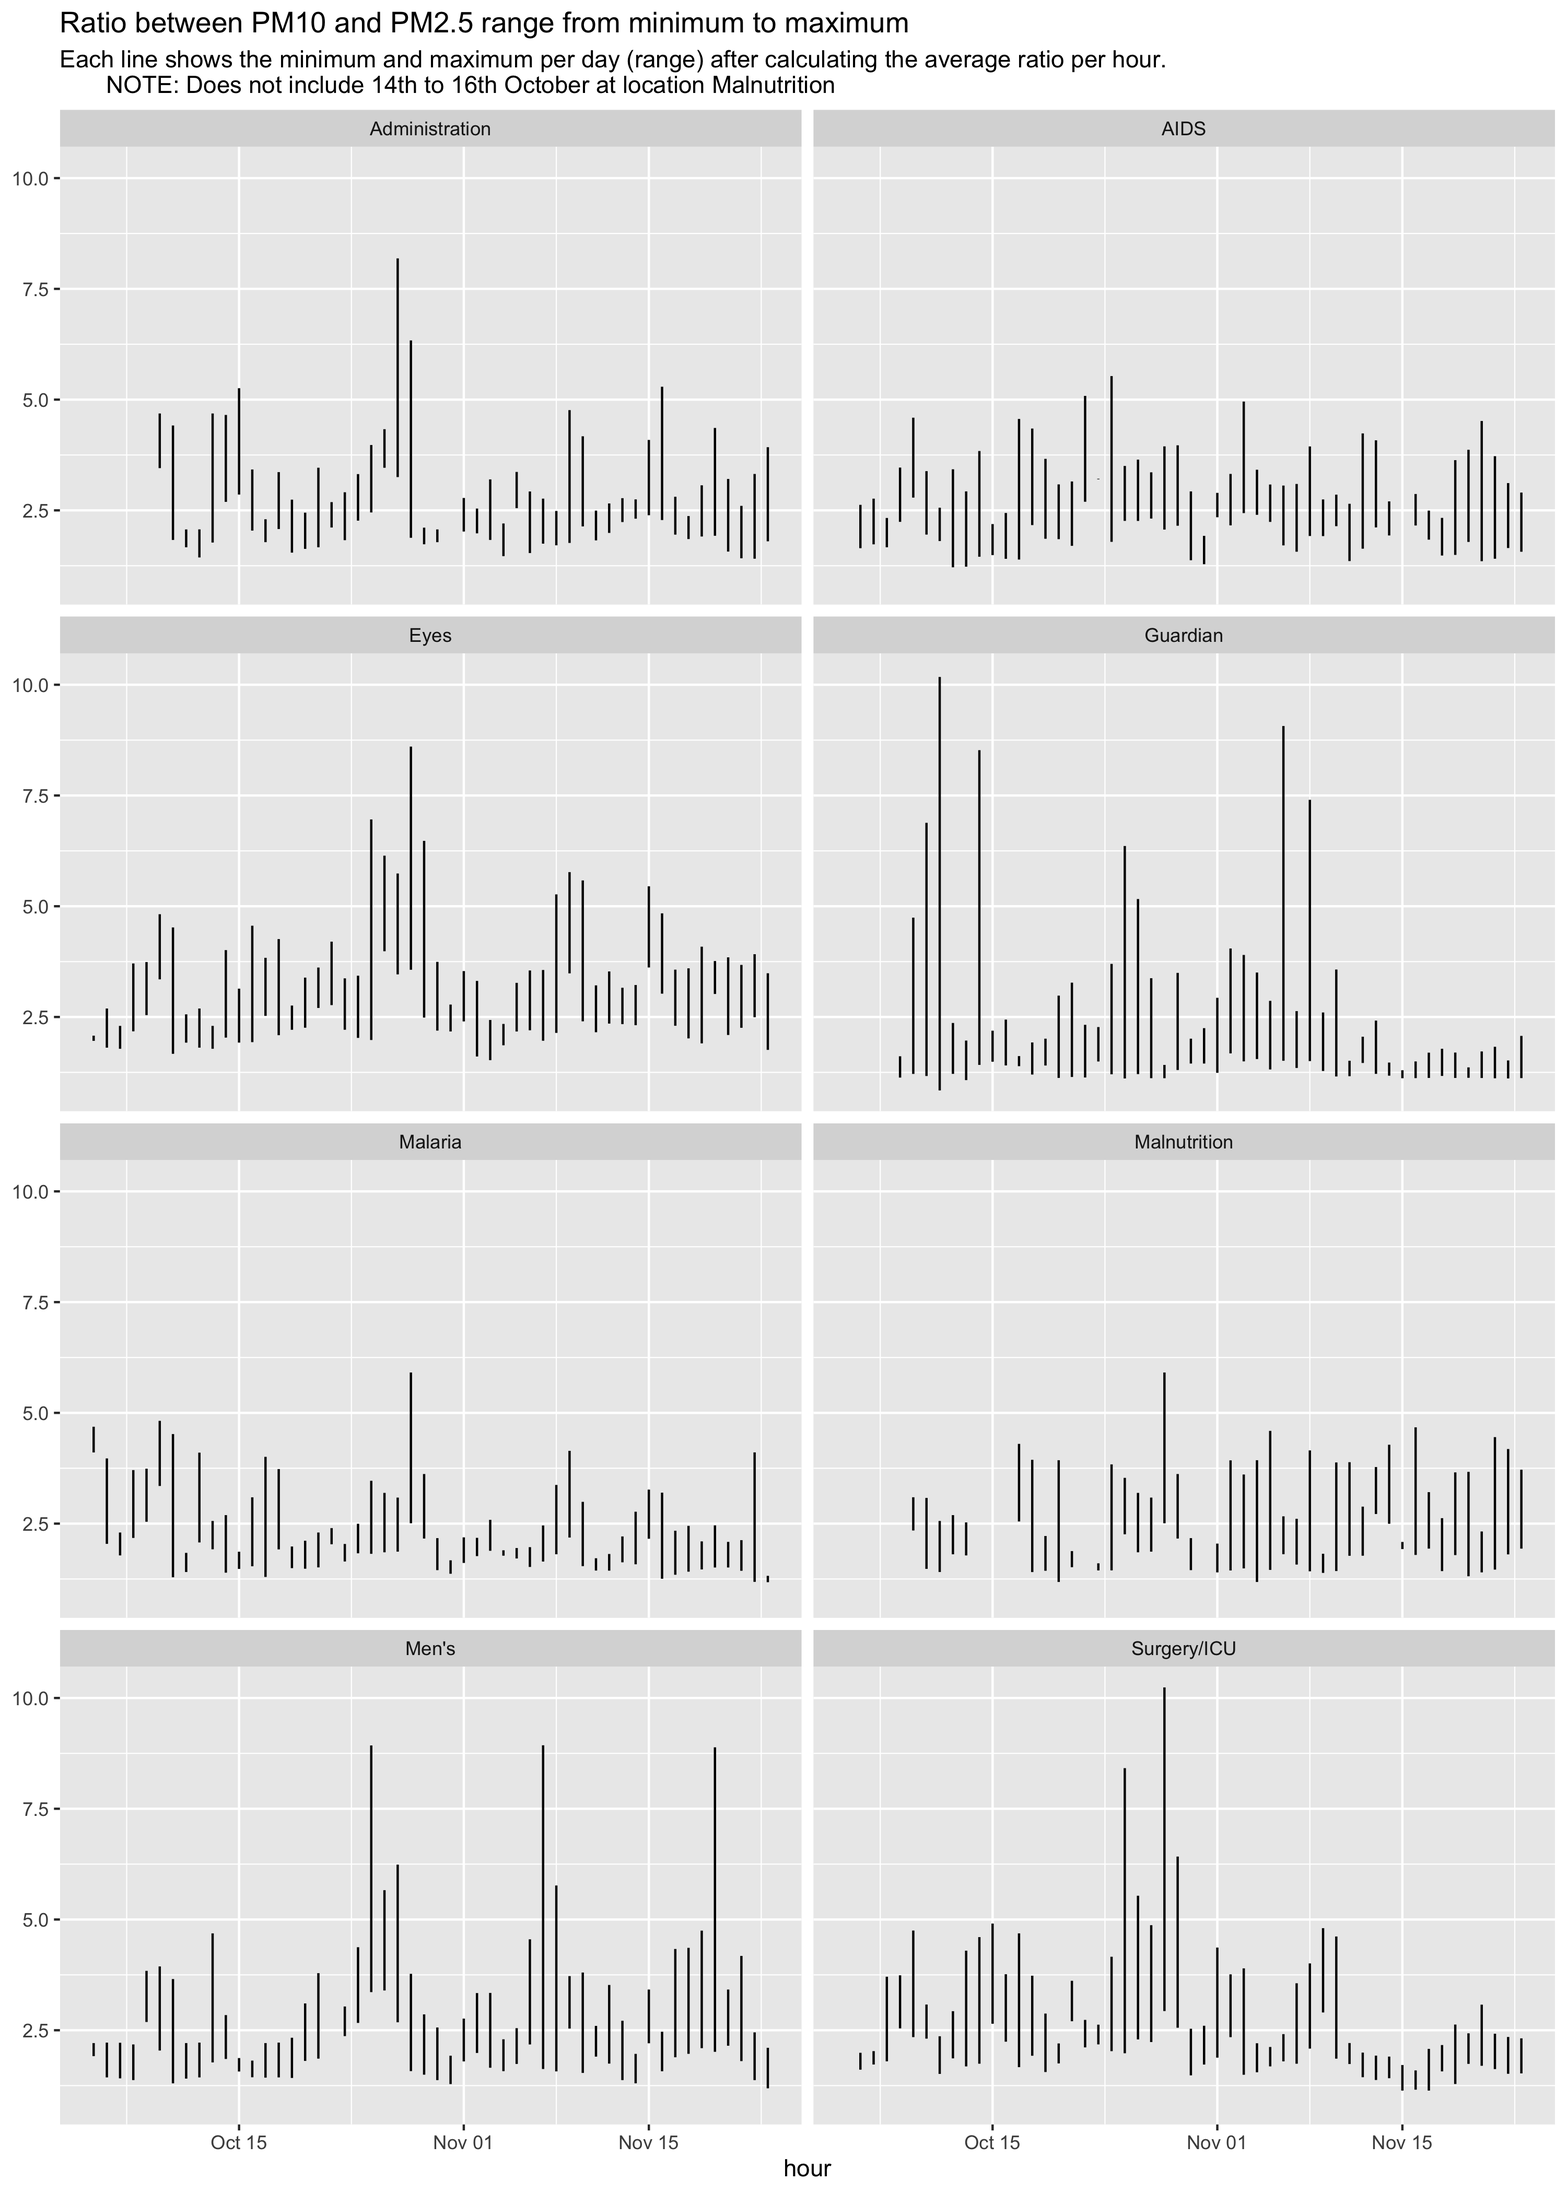
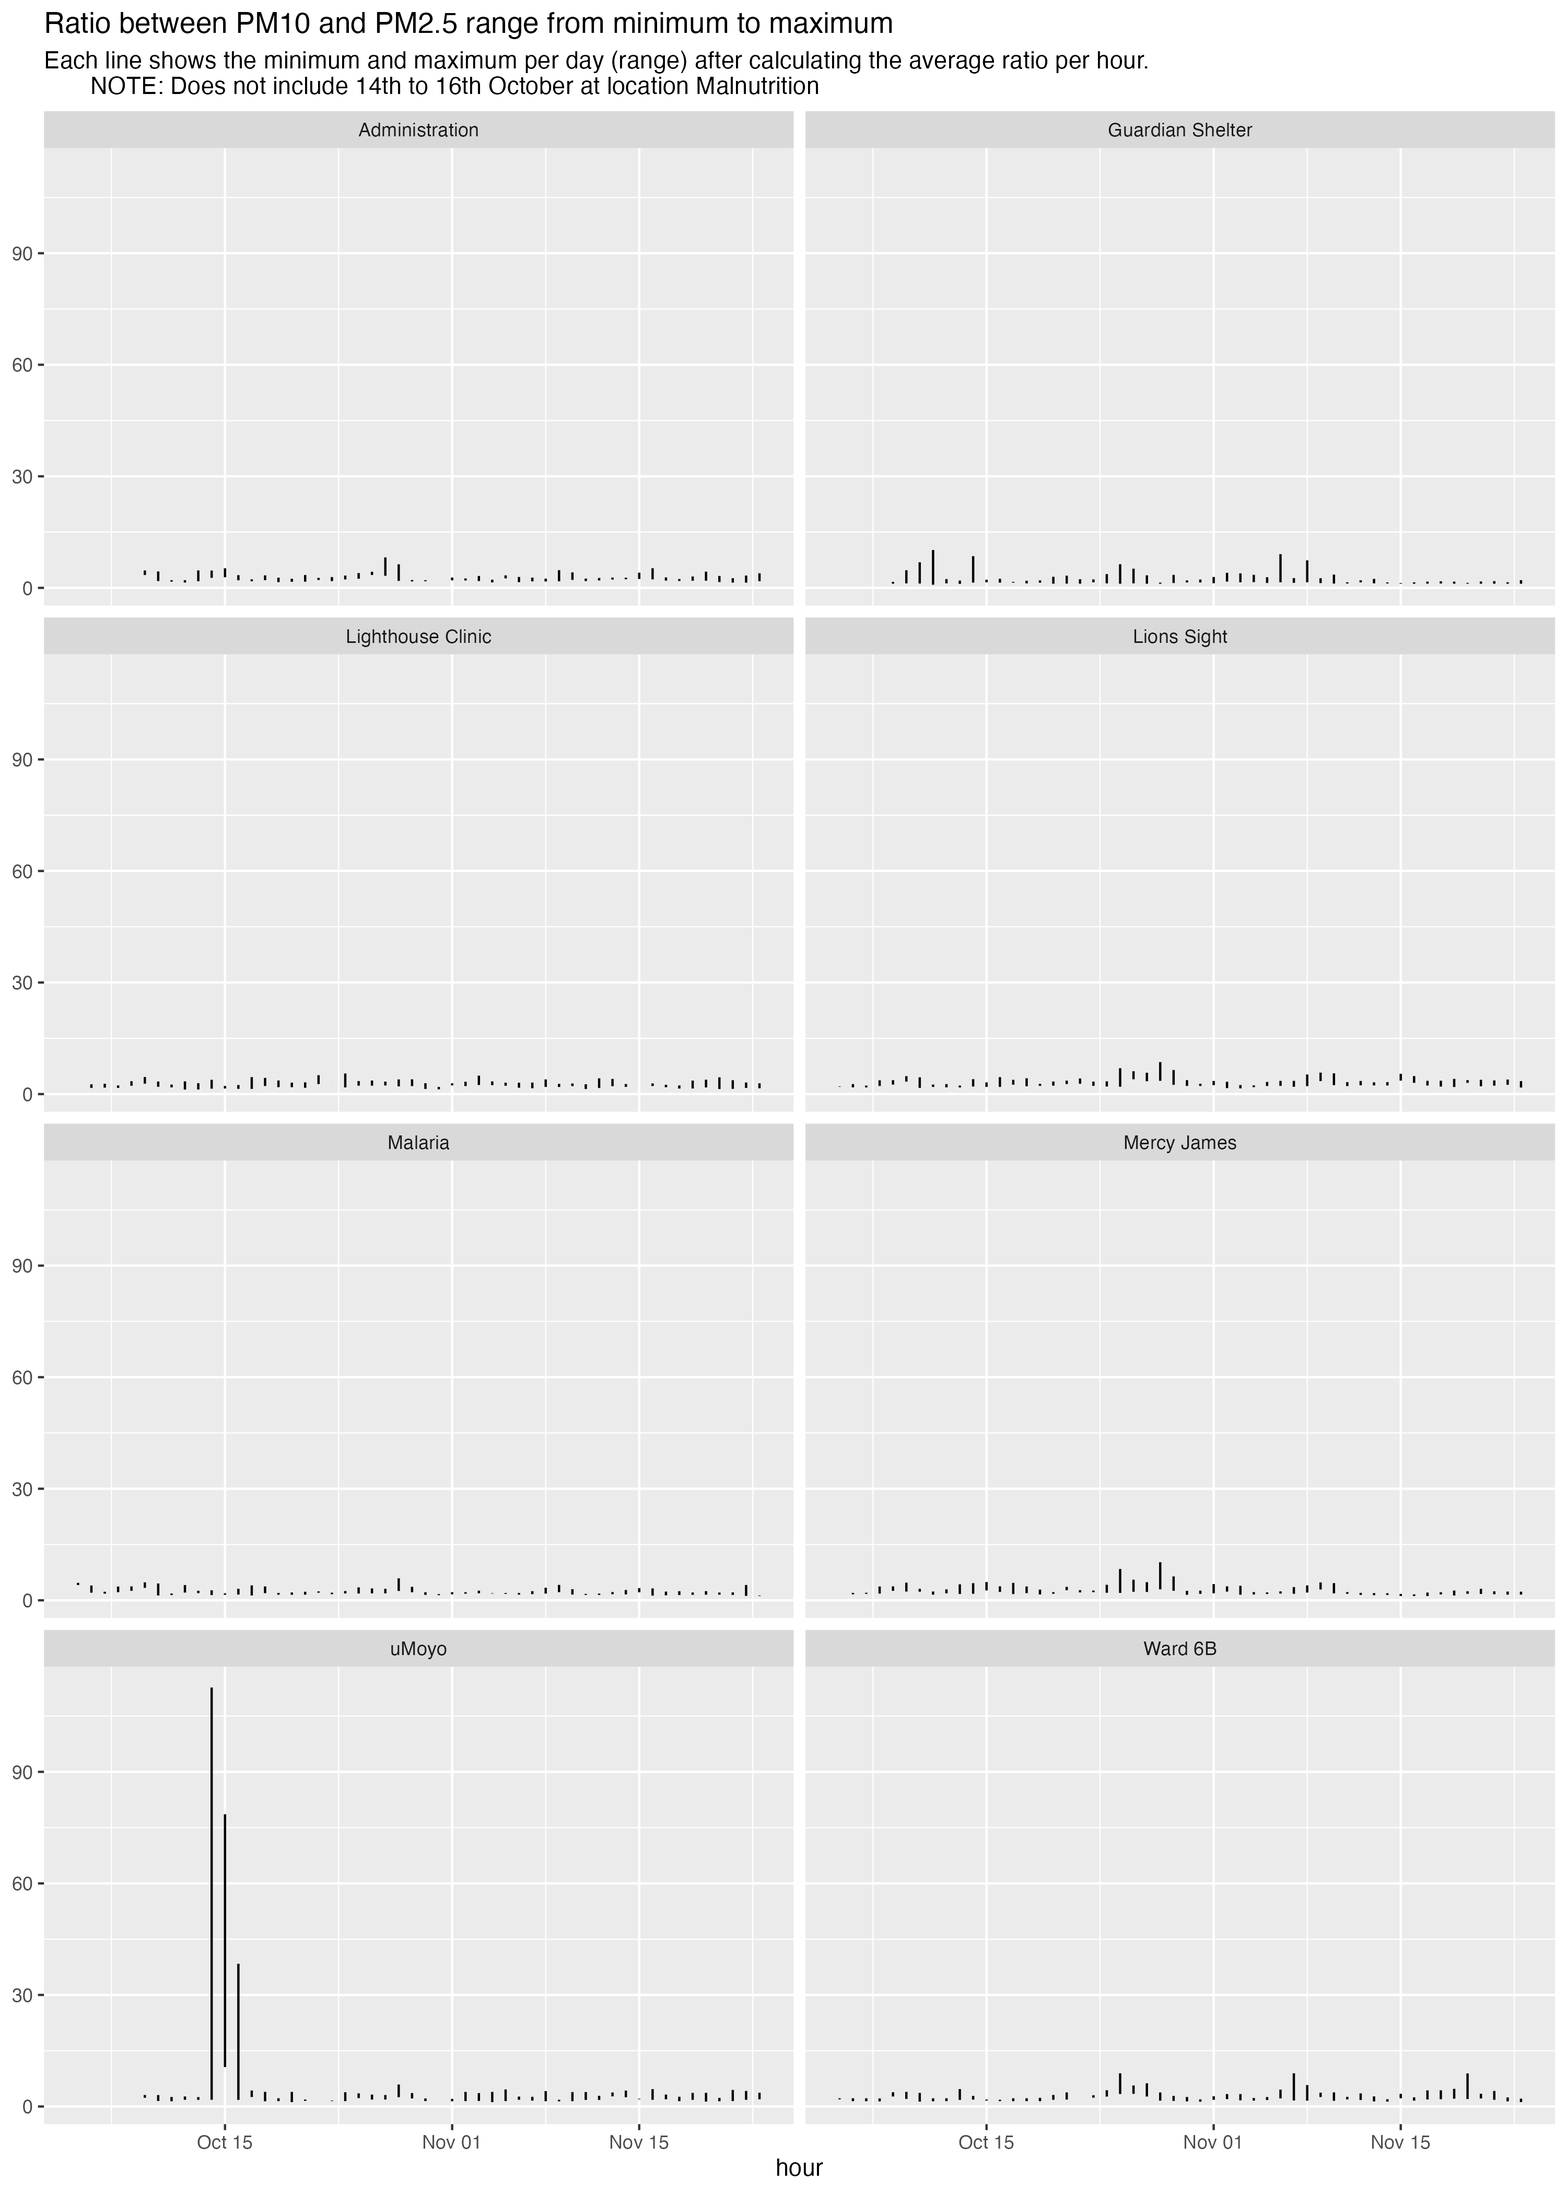
Fix renaming issues

diff --git a/README.md b/README.md
@@ -13,21 +13,11 @@ produced.
 
 Air quality data (PM2.5 and PM10) was collected in roughly 5-minute
 intervals from eight locations at one hospital over the period of 3
-months. The locations are Administration, AIDS, Eyes, Guardian, Malaria,
-Malnutrition, Men’s, and Surgery/ICU.
+months. The locations are Administration, Guardian Shelter, Lighthouse
+Clinic, Lions Sight, Malaria, Mercy James, uMoyo, and Ward 6B.
 
 One sensor was installed at each location, either on the side or on the
 outside wall.
-
-## Hospital locations
-
--   6B—\>Men’s Ward
--   guardian→ Guardian’s shelter (guardians of patients)
--   Lhouse—\>AIDS
--   Lions→ Eyes
--   Malaria—\>Malaria
--   MJC → Pediatric Surgery/ICU
--   Moyo —\>Malnutrition
 
 ## Sensor locations
 
@@ -78,11 +68,11 @@ TODO List:
 
 ![](README_files/figure-gfm/unnamed-chunk-6-1.png)<!-- -->
 
-### Waffle plot - (World Health Organization 2021)
+### Waffle plot - (World Health Organization 2021) (used)
 
 ![](README_files/figure-gfm/unnamed-chunk-7-1.png)<!-- -->
 
-### Waffle plot (selected) - USEPA
+### Waffle plot - USEPA (discarded)
 
 ![Figure caption me!](README_files/figure-gfm/plot-hazard-expo3-1.png)
 
@@ -93,16 +83,16 @@ TODO List:
 -   Column peaks counts the number of data points (5 minute intervals
     between them) above these two limits over all days
 
-| location       |     n | pm10 | pm2.5 |
-|:---------------|------:|-----:|------:|
-| Administration | 10900 |    1 |     4 |
-| AIDS           | 11472 |  676 |   350 |
-| Eyes           | 11749 |    0 |     0 |
-| Guardian       | 11032 |  178 |   359 |
-| Malaria        | 12031 |   18 |    19 |
-| Malnutrition   | 10637 |   43 |    18 |
-| Men’s          | 11861 |   15 |     4 |
-| Surgery/ICU    | 12193 |   37 |    15 |
+| location          |     n | pm10 | pm2.5 |
+|:------------------|------:|-----:|------:|
+| Administration    | 10900 |    1 |     4 |
+| Guardian Shelter  | 11032 |  178 |   359 |
+| Lighthouse Clinic | 11472 |  676 |   350 |
+| Lions Sight       | 11749 |    0 |     0 |
+| Malaria           | 12031 |   18 |    19 |
+| Mercy James       | 12193 |   37 |    15 |
+| uMoyo             | 10637 |   43 |    18 |
+| Ward 6B           | 11861 |   15 |     4 |
 
 ## Table: Peaks over the limit for hazardous ((World Health Organization 2021))
 
@@ -111,16 +101,16 @@ TODO List:
 -   Column peaks counts the number of data points (5 minute intervals
     between them) above these two limits over all days
 
-| location       |     n | pm10 | pm2.5 |
-|:---------------|------:|-----:|------:|
-| Administration | 10900 |  171 |    94 |
-| AIDS           | 11472 | 4365 |  3891 |
-| Eyes           | 11749 |   91 |    14 |
-| Guardian       | 11032 | 4529 |  5314 |
-| Malaria        | 12031 |  617 |   578 |
-| Malnutrition   | 10637 |  703 |   399 |
-| Men’s          | 11861 | 1113 |  1236 |
-| Surgery/ICU    | 12193 |  736 |   749 |
+| location          |     n | pm10 | pm2.5 |
+|:------------------|------:|-----:|------:|
+| Administration    | 10900 |  171 |    94 |
+| Guardian Shelter  | 11032 | 4529 |  5314 |
+| Lighthouse Clinic | 11472 | 4365 |  3891 |
+| Lions Sight       | 11749 |   91 |    14 |
+| Malaria           | 12031 |  617 |   578 |
+| Mercy James       | 12193 |  736 |   749 |
+| uMoyo             | 10637 |  703 |   399 |
+| Ward 6B           | 11861 | 1113 |  1236 |
 
 ## Plot: Ratio between PM10 and PM2.5 range from minimum to maximum (WIP)
 
@@ -140,80 +130,80 @@ TODO List:
 -   PM25 descreases at the same time
 -   The ratio jumps from to 90 from the usual 1 to 5
 
-| date       | hour | location     | pm10 | pm2.5 | p10_pm2.5_ratio |
-|:-----------|-----:|:-------------|-----:|------:|----------------:|
-| 2019-10-14 |    0 | Malnutrition |   38 |    18 |               2 |
-| 2019-10-14 |    1 | Malnutrition |   31 |    17 |               2 |
-| 2019-10-14 |    2 | Malnutrition |   39 |    13 |               3 |
-| 2019-10-14 |    3 | Malnutrition |   41 |    10 |               4 |
-| 2019-10-14 |    4 | Malnutrition |   41 |    11 |               4 |
-| 2019-10-14 |    5 | Malnutrition |   37 |    11 |               3 |
-| 2019-10-14 |    6 | Malnutrition |   40 |    12 |               3 |
-| 2019-10-14 |    7 | Malnutrition |   44 |    12 |               4 |
-| 2019-10-14 |    8 | Malnutrition |   45 |    13 |               4 |
-| 2019-10-14 |    9 | Malnutrition |   45 |    14 |               3 |
-| 2019-10-14 |   10 | Malnutrition |   46 |    14 |               3 |
-| 2019-10-14 |   11 | Malnutrition |   44 |    13 |               3 |
-| 2019-10-14 |   12 | Malnutrition |   40 |    12 |               3 |
-| 2019-10-14 |   13 | Malnutrition |   53 |    19 |               3 |
-| 2019-10-14 |   14 | Malnutrition |   59 |    22 |               3 |
-| 2019-10-14 |   15 | Malnutrition |  145 |     5 |              27 |
-| 2019-10-14 |   16 | Malnutrition |  302 |     6 |              53 |
-| 2019-10-14 |   17 | Malnutrition |  386 |     6 |              69 |
-| 2019-10-14 |   18 | Malnutrition |  438 |     4 |             113 |
-| 2019-10-14 |   19 | Malnutrition |  354 |     4 |              90 |
-| 2019-10-14 |   20 | Malnutrition |  374 |     4 |              96 |
-| 2019-10-14 |   21 | Malnutrition |  294 |     4 |              80 |
-| 2019-10-14 |   22 | Malnutrition |  287 |     4 |              77 |
-| 2019-10-14 |   23 | Malnutrition |  162 |     4 |              39 |
-| 2019-10-15 |    0 | Malnutrition |  204 |     6 |              34 |
-| 2019-10-15 |    1 | Malnutrition |  258 |     3 |              79 |
-| 2019-10-15 |    2 | Malnutrition |  266 |     4 |              66 |
-| 2019-10-15 |    3 | Malnutrition |  121 |     4 |              33 |
-| 2019-10-15 |    4 | Malnutrition |  114 |     4 |              31 |
-| 2019-10-15 |    5 | Malnutrition |   47 |     4 |              12 |
-| 2019-10-15 |    6 | Malnutrition |   39 |     3 |              12 |
-| 2019-10-15 |    7 | Malnutrition |   69 |     4 |              17 |
-| 2019-10-15 |    8 | Malnutrition |   81 |     3 |              24 |
-| 2019-10-15 |    9 | Malnutrition |   66 |     4 |              18 |
-| 2019-10-15 |   10 | Malnutrition |   64 |     6 |              11 |
-| 2019-10-15 |   11 | Malnutrition |   87 |     4 |              22 |
-| 2019-10-15 |   12 | Malnutrition |   85 |     4 |              23 |
-| 2019-10-15 |   13 | Malnutrition |  119 |     3 |              40 |
-| 2019-10-15 |   14 | Malnutrition |  102 |     3 |              34 |
-| 2019-10-15 |   15 | Malnutrition |  121 |     3 |              35 |
-| 2019-10-15 |   16 | Malnutrition |   99 |     8 |              12 |
-| 2019-10-15 |   17 | Malnutrition |  159 |     7 |              23 |
-| 2019-10-15 |   18 | Malnutrition |  167 |     6 |              28 |
-| 2019-10-15 |   19 | Malnutrition |  134 |     7 |              18 |
-| 2019-10-15 |   20 | Malnutrition |  168 |     6 |              28 |
-| 2019-10-15 |   21 | Malnutrition |  109 |     5 |              21 |
-| 2019-10-15 |   22 | Malnutrition |  124 |     5 |              24 |
-| 2019-10-15 |   23 | Malnutrition |  304 |     5 |              58 |
-| 2019-10-16 |    0 | Malnutrition |  215 |     7 |              33 |
-| 2019-10-16 |    1 | Malnutrition |  210 |     6 |              33 |
-| 2019-10-16 |    2 | Malnutrition |  165 |    22 |               7 |
-| 2019-10-16 |    3 | Malnutrition |  134 |    14 |               9 |
-| 2019-10-16 |    4 | Malnutrition |   99 |    11 |               9 |
-| 2019-10-16 |    5 | Malnutrition |  255 |     7 |              38 |
-| 2019-10-16 |    6 | Malnutrition |   48 |     7 |               7 |
-| 2019-10-16 |    7 | Malnutrition |   36 |     7 |               5 |
-| 2019-10-16 |    8 | Malnutrition |   36 |     9 |               4 |
-| 2019-10-16 |    9 | Malnutrition |   41 |     7 |               6 |
-| 2019-10-16 |   10 | Malnutrition |   40 |     9 |               5 |
-| 2019-10-16 |   11 | Malnutrition |   41 |    12 |               3 |
-| 2019-10-16 |   12 | Malnutrition |   47 |    24 |               2 |
-| 2019-10-16 |   13 | Malnutrition |   51 |    28 |               2 |
-| 2019-10-16 |   14 | Malnutrition |   48 |    27 |               2 |
-| 2019-10-16 |   15 | Malnutrition |   45 |    24 |               2 |
-| 2019-10-16 |   16 | Malnutrition |   39 |    22 |               2 |
-| 2019-10-16 |   17 | Malnutrition |   44 |    23 |               2 |
-| 2019-10-16 |   18 | Malnutrition |   38 |    20 |               2 |
-| 2019-10-16 |   19 | Malnutrition |   36 |    19 |               2 |
-| 2019-10-16 |   20 | Malnutrition |   45 |    21 |               2 |
-| 2019-10-16 |   21 | Malnutrition |   46 |    20 |               2 |
-| 2019-10-16 |   22 | Malnutrition |   41 |    18 |               2 |
-| 2019-10-16 |   23 | Malnutrition |   36 |    17 |               2 |
+| date       | hour | location | pm10 | pm2.5 | p10_pm2.5_ratio |
+|:-----------|-----:|:---------|-----:|------:|----------------:|
+| 2019-10-14 |    0 | uMoyo    |   38 |    18 |               2 |
+| 2019-10-14 |    1 | uMoyo    |   31 |    17 |               2 |
+| 2019-10-14 |    2 | uMoyo    |   39 |    13 |               3 |
+| 2019-10-14 |    3 | uMoyo    |   41 |    10 |               4 |
+| 2019-10-14 |    4 | uMoyo    |   41 |    11 |               4 |
+| 2019-10-14 |    5 | uMoyo    |   37 |    11 |               3 |
+| 2019-10-14 |    6 | uMoyo    |   40 |    12 |               3 |
+| 2019-10-14 |    7 | uMoyo    |   44 |    12 |               4 |
+| 2019-10-14 |    8 | uMoyo    |   45 |    13 |               4 |
+| 2019-10-14 |    9 | uMoyo    |   45 |    14 |               3 |
+| 2019-10-14 |   10 | uMoyo    |   46 |    14 |               3 |
+| 2019-10-14 |   11 | uMoyo    |   44 |    13 |               3 |
+| 2019-10-14 |   12 | uMoyo    |   40 |    12 |               3 |
+| 2019-10-14 |   13 | uMoyo    |   53 |    19 |               3 |
+| 2019-10-14 |   14 | uMoyo    |   59 |    22 |               3 |
+| 2019-10-14 |   15 | uMoyo    |  145 |     5 |              27 |
+| 2019-10-14 |   16 | uMoyo    |  302 |     6 |              53 |
+| 2019-10-14 |   17 | uMoyo    |  386 |     6 |              69 |
+| 2019-10-14 |   18 | uMoyo    |  438 |     4 |             113 |
+| 2019-10-14 |   19 | uMoyo    |  354 |     4 |              90 |
+| 2019-10-14 |   20 | uMoyo    |  374 |     4 |              96 |
+| 2019-10-14 |   21 | uMoyo    |  294 |     4 |              80 |
+| 2019-10-14 |   22 | uMoyo    |  287 |     4 |              77 |
+| 2019-10-14 |   23 | uMoyo    |  162 |     4 |              39 |
+| 2019-10-15 |    0 | uMoyo    |  204 |     6 |              34 |
+| 2019-10-15 |    1 | uMoyo    |  258 |     3 |              79 |
+| 2019-10-15 |    2 | uMoyo    |  266 |     4 |              66 |
+| 2019-10-15 |    3 | uMoyo    |  121 |     4 |              33 |
+| 2019-10-15 |    4 | uMoyo    |  114 |     4 |              31 |
+| 2019-10-15 |    5 | uMoyo    |   47 |     4 |              12 |
+| 2019-10-15 |    6 | uMoyo    |   39 |     3 |              12 |
+| 2019-10-15 |    7 | uMoyo    |   69 |     4 |              17 |
+| 2019-10-15 |    8 | uMoyo    |   81 |     3 |              24 |
+| 2019-10-15 |    9 | uMoyo    |   66 |     4 |              18 |
+| 2019-10-15 |   10 | uMoyo    |   64 |     6 |              11 |
+| 2019-10-15 |   11 | uMoyo    |   87 |     4 |              22 |
+| 2019-10-15 |   12 | uMoyo    |   85 |     4 |              23 |
+| 2019-10-15 |   13 | uMoyo    |  119 |     3 |              40 |
+| 2019-10-15 |   14 | uMoyo    |  102 |     3 |              34 |
+| 2019-10-15 |   15 | uMoyo    |  121 |     3 |              35 |
+| 2019-10-15 |   16 | uMoyo    |   99 |     8 |              12 |
+| 2019-10-15 |   17 | uMoyo    |  159 |     7 |              23 |
+| 2019-10-15 |   18 | uMoyo    |  167 |     6 |              28 |
+| 2019-10-15 |   19 | uMoyo    |  134 |     7 |              18 |
+| 2019-10-15 |   20 | uMoyo    |  168 |     6 |              28 |
+| 2019-10-15 |   21 | uMoyo    |  109 |     5 |              21 |
+| 2019-10-15 |   22 | uMoyo    |  124 |     5 |              24 |
+| 2019-10-15 |   23 | uMoyo    |  304 |     5 |              58 |
+| 2019-10-16 |    0 | uMoyo    |  215 |     7 |              33 |
+| 2019-10-16 |    1 | uMoyo    |  210 |     6 |              33 |
+| 2019-10-16 |    2 | uMoyo    |  165 |    22 |               7 |
+| 2019-10-16 |    3 | uMoyo    |  134 |    14 |               9 |
+| 2019-10-16 |    4 | uMoyo    |   99 |    11 |               9 |
+| 2019-10-16 |    5 | uMoyo    |  255 |     7 |              38 |
+| 2019-10-16 |    6 | uMoyo    |   48 |     7 |               7 |
+| 2019-10-16 |    7 | uMoyo    |   36 |     7 |               5 |
+| 2019-10-16 |    8 | uMoyo    |   36 |     9 |               4 |
+| 2019-10-16 |    9 | uMoyo    |   41 |     7 |               6 |
+| 2019-10-16 |   10 | uMoyo    |   40 |     9 |               5 |
+| 2019-10-16 |   11 | uMoyo    |   41 |    12 |               3 |
+| 2019-10-16 |   12 | uMoyo    |   47 |    24 |               2 |
+| 2019-10-16 |   13 | uMoyo    |   51 |    28 |               2 |
+| 2019-10-16 |   14 | uMoyo    |   48 |    27 |               2 |
+| 2019-10-16 |   15 | uMoyo    |   45 |    24 |               2 |
+| 2019-10-16 |   16 | uMoyo    |   39 |    22 |               2 |
+| 2019-10-16 |   17 | uMoyo    |   44 |    23 |               2 |
+| 2019-10-16 |   18 | uMoyo    |   38 |    20 |               2 |
+| 2019-10-16 |   19 | uMoyo    |   36 |    19 |               2 |
+| 2019-10-16 |   20 | uMoyo    |   45 |    21 |               2 |
+| 2019-10-16 |   21 | uMoyo    |   46 |    20 |               2 |
+| 2019-10-16 |   22 | uMoyo    |   41 |    18 |               2 |
+| 2019-10-16 |   23 | uMoyo    |   36 |    17 |               2 |
 
 ## Plot: Hourly average by date and location
 
